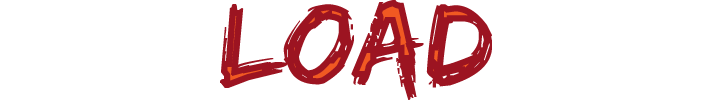
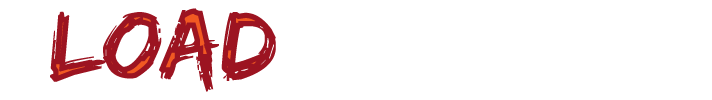
game, images, alles

Changed region(s): [[0.0618, 0.0, 0.7107, 0.99]]

diff --git a/Game.py b/Game.py
@@ -140,31 +140,30 @@ def menu():
 
     #buttons (x, y, size x, size y)
     start_rect = (0, 50, screenX//2.5, 75)
-    instruct_rect = (0, 150, screenX//2.5, 75)
+    manual_rect = (0, 150, screenX//2.5, 75)
     save_rect = (0, 250, screenX//2.5, 75)
     load_rect = (0, 350, screenX//2.5, 75)
     exit_rect = (0, 550, screenX//2.5, 75) 
 
-    start_button=screen.fill(black, start_rect)
-    instruct_button=screen.fill(black, instruct_rect)
-    save_button=screen.fill(black, save_rect)
-    load_button=screen.fill(black, load_rect)
-    exit_button=screen.fill(black, exit_rect)
+    start_button = screen.fill(black, start_rect)
+    instruct_button = screen.fill(black, manual_rect)
+    save_button = screen.fill(black, save_rect)
+    load_button = screen.fill(black, load_rect)
+    exit_button = screen.fill(black, exit_rect)
 
-    #text Text, AA , color
-    my_font = pygame.font.SysFont("Arial", 70)
-    startB_text = my_font.render('START GAME', True, (255,255,255))
-    instructB_text = my_font.render('INSTRUCTIONS', True, (255,255,255))
-    saveB_text = my_font.render('SAVE', True, (255,255,255))
-    loadB_text = my_font.render('LOAD', True, (255,255,255))
-    exitB_text = my_font.render("EXIT", True, (255,255,255))
+    #load images
+    startB_img = pygame.transform.scale(pygame.image.load('b_start.png'), (screenX//2, 75))
+    manualB_img = pygame.transform.scale(pygame.image.load('b_manual.png'), (screenX//2, 75))
+    saveB_img = pygame.transform.scale(pygame.image.load('b_save.png'), (screenX//2, 75))
+    loadB_img = pygame.transform.scale(pygame.image.load('b_load.png'), (screenX//2, 75))
+    exitB_img = pygame.transform.scale(pygame.image.load('b_exit.png'), (screenX//2, 75))
     
-    #draw text
-    screen.blit(startB_text,(0, 50))
-    screen.blit(instructB_text,(0, 150))
-    screen.blit(saveB_text,(0, 250))
-    screen.blit(loadB_text,(0, 350))
-    screen.blit(exitB_text, (0, 550))
+    #draw images
+    screen.blit(startB_img, (0, 50))
+    screen.blit(manualB_img, (0, 150))
+    screen.blit(saveB_img, (0, 250))
+    screen.blit(loadB_img, (0, 350))
+    screen.blit(exitB_img, (0, 550))
 
     #button actions
     (b1,b2,b3) = pygame.mouse.get_pressed()
